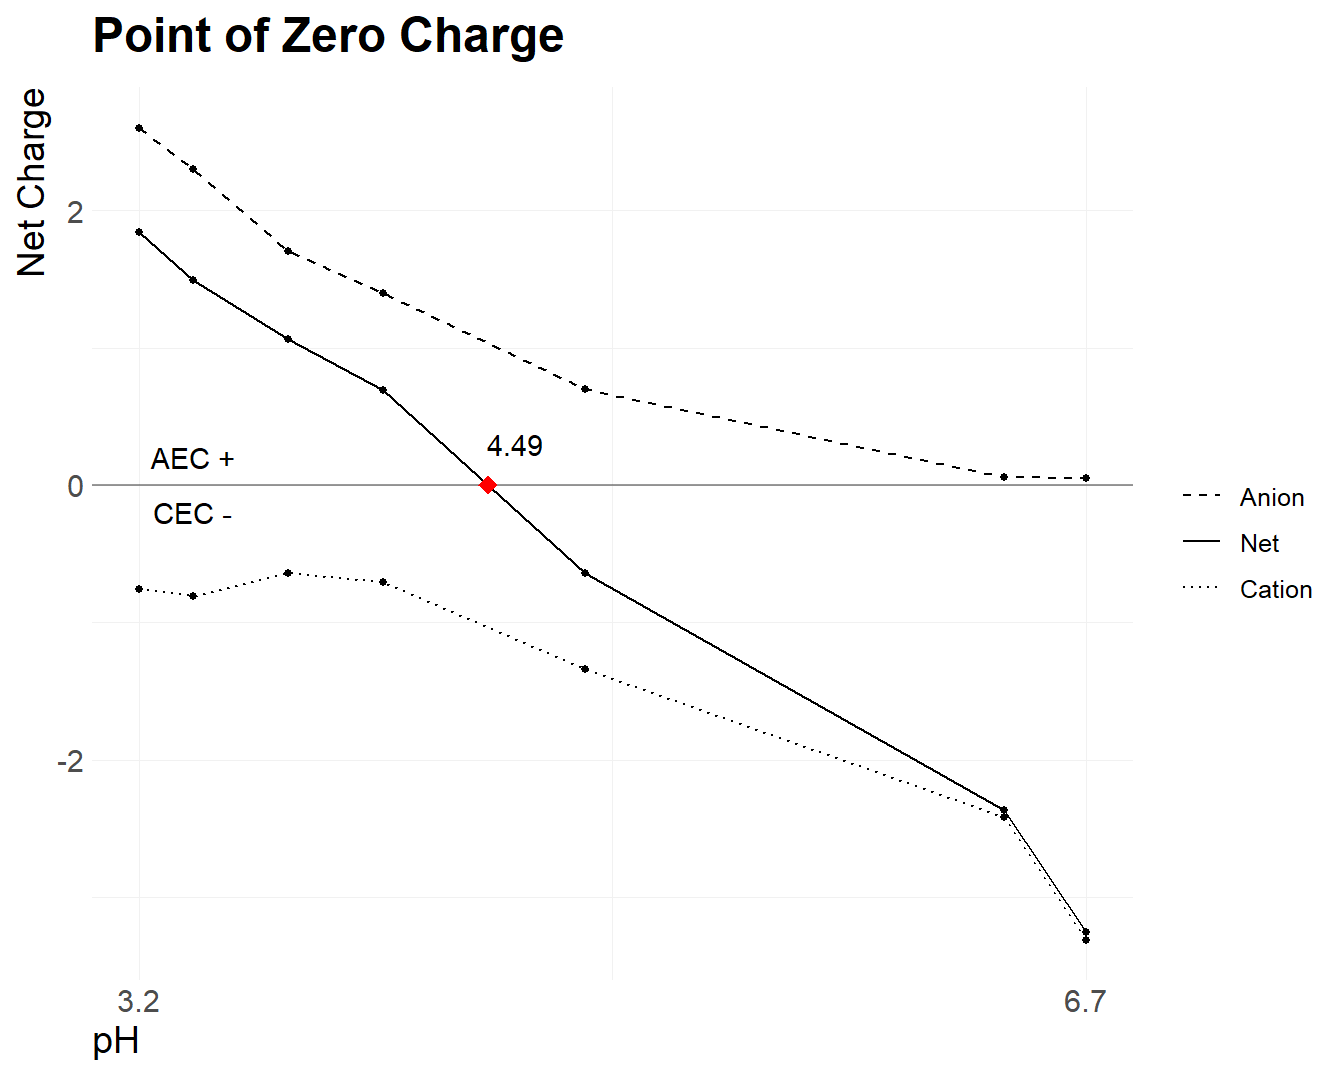
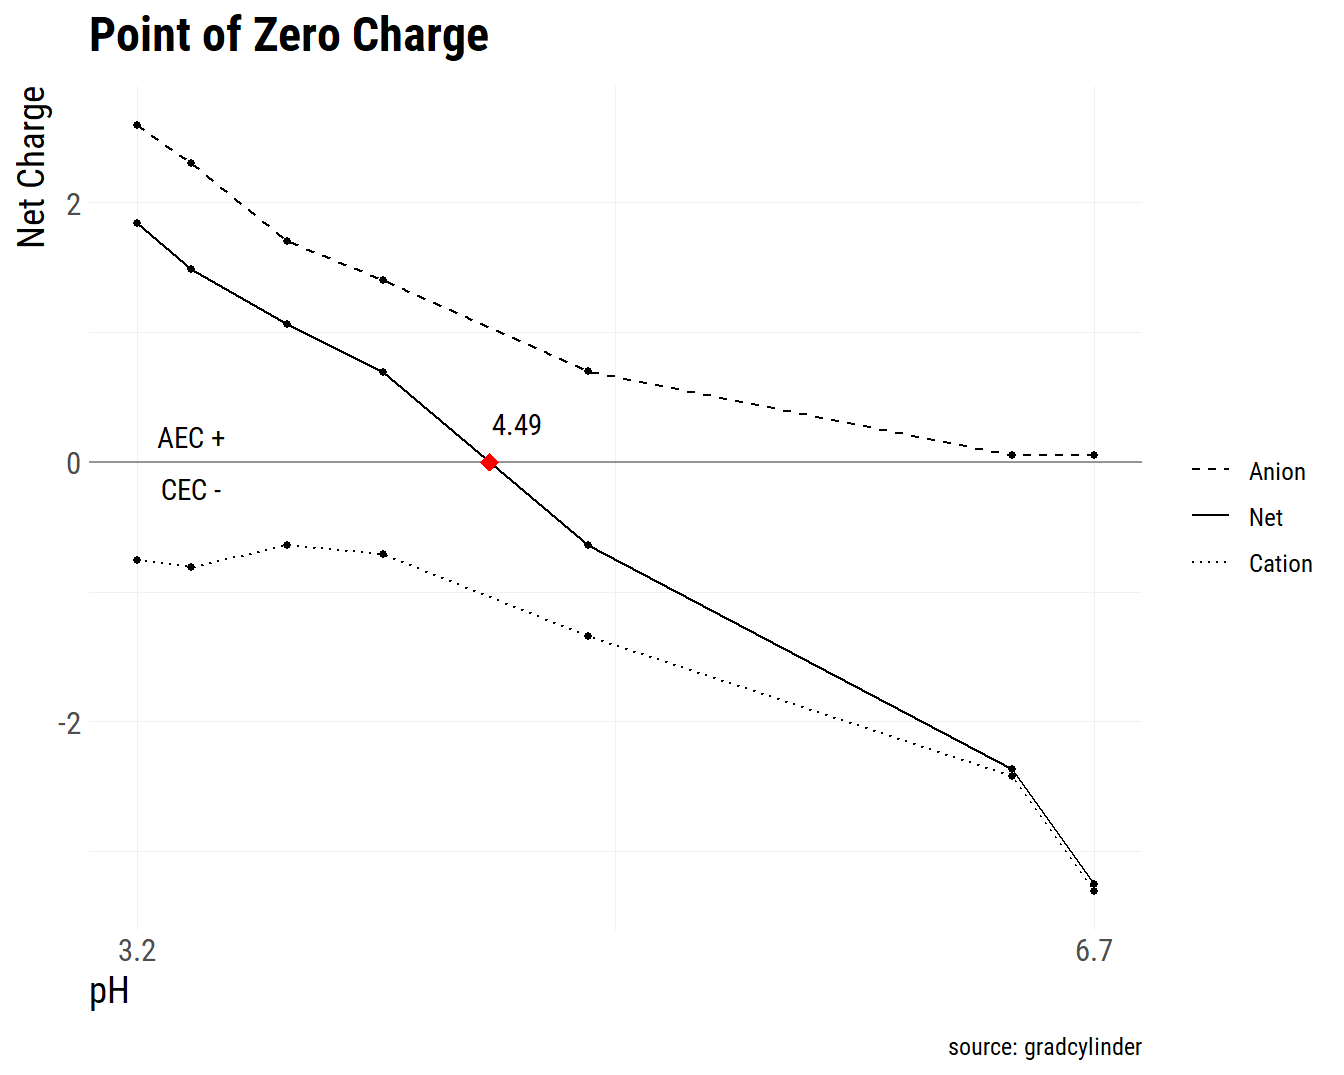
tweaks

diff --git a/content/post/visualizing-data.html b/content/post/visualizing-data.html
@@ -40,17 +40,17 @@ soil %&gt;%
     y = 150,
     label = paste(&quot;R^2 == &quot;, round(summary(lm)$r.squared,
                                    digits = 2)),
-    parse = TRUE
+    parse = TRUE,
+    family = &quot;Roboto Condensed&quot;
   ) +
   labs(
     x = &quot;Olsen (ppm)&quot;,
     y = &quot;Mehlich III (ppm)&quot;,
     title = &quot;Correlation of Olsen and Mehlich III soil phosphorus extractions&quot;,
     caption = &quot;source: gradcylinder&quot;
-  ) +
-  theme_bw()</code></pre>
+  )</code></pre>
 <pre><code>## `geom_smooth()` using formula &#39;y ~ x&#39;</code></pre>
-<p><img src="post/visualizing-data_files/figure-html/plot-1.png" width="672" /></p>
+<p><img src="/post/visualizing-data_files/figure-html/plot-1.png" width="672" /></p>
 </div>
 <div id="google-sheets" class="section level2">
 <h2>Google Sheets</h2>
@@ -62,7 +62,7 @@ soil %&gt;%
 <div id="microsoft-excel" class="section level2">
 <h2>Microsoft Excel</h2>
 <p>Is there much for me to explain here? You know what Excel is, right? When creating graphs in Excel, I do like being able to quickly change the overall appearance of the graph by selecting different templates provided by Microsoft. With that said, not all the templates are visually appealing. Some of the automatically assigned colors are kind of bland. And exporting graphs? Can only really be done if one is copying and pasting into Powerpoint or Word.</p>
-<p><img src="/img/visdata-01.png" /></p>
+<p><img src="/visdata_01.png" /></p>
 </div>
 <div id="datawrapper" class="section level2">
 <h2>Datawrapper</h2>
@@ -74,11 +74,6 @@ soil %&gt;%
 <div id="tableau" class="section level2">
 <h2>Tableau</h2>
 <p>Tableau offers data visualization and analysis software, including <a href="https://public.tableau.com/en-us/s/download/thanks">Tableau Public</a>, a free program and platform that streamlines visualization and online publishing. The visualizations are far more comprehensive than Sheets or Excel, giving the user the ability to create dashboards or stories out of multiple graphs. Here is <a href="https://public.tableau.com/profile/privatestorm#!/vizhome/1850AgriculturalProductioninPennsylvania/Dashboard">an example</a> of a dashboard that recently won a student contest. As for me, I haven’t used this software much, but I was impressed by how quickly I could make a simple map.</p>
-</div>
-<div id="plotly" class="section level2">
-<h2>Plotly</h2>
-<p><a href="https://chart-studio.plot.ly">Plotly’s Chart Studio</a> has some nice functionality and multiple chart options freely available to users. Last I really tried it, Plotly transitioned to a newer 2.0 platform, which in some ways was more user friendly and intuitive than version 1.0. Plotly 2 limited some features to free-account users like myself; some limitations are quite annoying, like the inability to change the color of the chart background without subscribing to a paid account. Or the chart font color. Or the chart font. Seriously? With that said, the charts can export in multiple formats and can be embedded into a website (see below), updating if you revise the graph or data later.</p>
-<p>Last I used Plotly, they offered a hefty discount to students looking for a personal subscription ($99/year instead of $420/year, but that student rate is up from $59 previously). Prices and company goals have changed since then, and are not readily seen on the site. Plotly orgnanized Plotcon, last held in 2017, which does not seem to have continued. There is an R package for plotly which worked with ggplot2, even. And Plotly has a <a href="https://www.youtube.com/user/plotlygraph">YouTube channel</a> (with Dash stuff and old Plotcon). Having just checked in with Plotly again recently, it seems that Plotly seems spread thin and distracted.</p>
 </div>
 <div id="raw" class="section level2">
 <h2>RAW</h2>
@@ -98,5 +93,5 @@ soil %&gt;%
 <div id="chartaccent" class="section level2">
 <h2>ChartAccent</h2>
 <p><a href="https://chartaccent.github.io">ChartAccent</a> is a really useful tool for creating basic graphs that need annotation. Sometimes, graphs speak for themselves, but often you’ll need to draw the eyes of viewers to a certain data point, certain trend or pattern, or at least acknowledge the data source if not your own.</p>
-<p><img src="/img/visdata-02.png" /></p>
+<p><img src="/visdata_02.png" /></p>
 </div>

diff --git a/content/post/plotting-for-the-colorblind.html b/content/post/plotting-for-the-colorblind.html
@@ -15,20 +15,21 @@ editor_options:
 <script src="/rmarkdown-libs/header-attrs/header-attrs.js"></script>
 
 
-<p>The following example is intended to help people with normal color vision experience a little bit of what it is like to be color blind.</p>
-<p>Imagine sitting in the audience at a scientific presentation, and the presenter puts up the following key result.</p>
+<p>The following example is intended to help people with normal color vision experience a little bit of what it is like to be color blind. Imagine sitting in the audience at a scientific presentation, and the presenter puts up the following key result.</p>
+<p> </p>
 <p><img src="/post/plotting-for-the-colorblind_files/figure-html/plot-cb-1.png" width="672" /></p>
 <p>“Clearly our novel approach has improved the expected response…”, the presenter says, everyone nodding in amazement.</p>
 <p>You look at the plot again and scratch your head, a bit annoyed perhaps since the rest of the audience already sees it, but to you it’s more challenging to interpret the differences between treatments. In fact, you can’t really tell which lines belong to which treatment. Is Treatment A the line above or below Treatment B? Why can’t you readily tell the difference?</p>
 <div id="color-blindness" class="section level2">
 <h2>Color Blindness</h2>
 <p>Perhaps more appropriately referred to as color vision deficiency, color blindness is a condition in which certain light receptors in the eye are either deficient or absent. A deficiency in seeing reds or greens properly (red-green color blindness) affects about 8% of the male population with Northern European ancestry. <a href="https://nei.nih.gov/health/color_blindness/facts_about">The different forms can be learned</a> about with a simple web search.</p>
-<p>The colors of the data points in the plot shown above I intentionally altered to mimic red-green color blindness (see below). So, if you couldn’t see the difference between Treatment A and Treament B in those data points, it’s because you were viewing the plot as one would that has red-green color blindness. Unless you’re already red-green color blind, in which case I hope you support my efforts to enlighten these “full-spectrum” people.</p>
+<p>The colors of the data points in the plot shown above I intentionally altered to mimic red-green color blindness (see below). So, if you couldn’t see the difference between Treatment A and Treatment B in those data points, it’s because you were viewing the plot as one would that has red-green color blindness. Unless you’re already red-green color blind, in which case I hope you support my efforts to enlighten these “full-spectrum” people.</p>
 </div>
 <div id="dichromat" class="section level2">
 <h2>Dichromat</h2>
 <p><a href="https://cran.r-project.org/web/packages/dichromat/index.html">Dichromat</a> is a package for R. To use it, create your plot with a color palette of your choice. Applying dichromat will alter the color palette, simulating one of the prominent color vision deficiencies. If the plot still looks good after using dichromat, then you can be more confident that the original color plot will be seen as intended by all audience members, and not just 92% of them.</p>
 <p>Below is the original plot.</p>
+<p> </p>
 <p><img src="/post/plotting-for-the-colorblind_files/figure-html/unnamed-chunk-1-1.png" width="672" /></p>
 <p>Next is sample code I used to create the plot at the top of the page, which simulated red-green color blindness, or deuteranopia.</p>
 <pre><code>library(dichromat)
@@ -87,6 +88,7 @@ ggplot(data = data,
 </ul></li>
 </ul>
 <p>The following is a simple modification of the original plot, which involves shapes and limits the palette to changes in brightness rather than colors.</p>
+<p> </p>
 <p><img src="/post/plotting-for-the-colorblind_files/figure-html/plot-gray-1.png" width="672" /></p>
 </div>
 <div class="footnotes">

diff --git a/content/post/point-zero-charge.html b/content/post/point-zero-charge.html
@@ -1,6 +1,6 @@
 ---
 title: "Finding the Point of Zero Charge in R"
-date: '2018-04-07'
+lastmod: "2021-01-29"
 slug: point-zero-charge
 description: "What is the point of this anyways?"
 tags:
@@ -95,55 +95,8 @@ ph_last &lt;- tail(pH, n = 1)</code></pre>
   labs(title = &quot;Point of Zero Charge&quot;,
        x = &quot;pH&quot;,
        y = &quot;Net Charge&quot;,
-       linetype = NULL)</code></pre>
-<pre><code>## Warning in grid.Call(C_stringMetric, as.graphicsAnnot(x$label)): font family not
-## found in Windows font database
-
-## Warning in grid.Call(C_stringMetric, as.graphicsAnnot(x$label)): font family not
-## found in Windows font database
-
-## Warning in grid.Call(C_stringMetric, as.graphicsAnnot(x$label)): font family not
-## found in Windows font database
-
-## Warning in grid.Call(C_stringMetric, as.graphicsAnnot(x$label)): font family not
-## found in Windows font database</code></pre>
-<pre><code>## Warning in grid.Call(C_textBounds, as.graphicsAnnot(x$label), x$x, x$y, : font
-## family not found in Windows font database
-
-## Warning in grid.Call(C_textBounds, as.graphicsAnnot(x$label), x$x, x$y, : font
-## family not found in Windows font database
-
-## Warning in grid.Call(C_textBounds, as.graphicsAnnot(x$label), x$x, x$y, : font
-## family not found in Windows font database
-
-## Warning in grid.Call(C_textBounds, as.graphicsAnnot(x$label), x$x, x$y, : font
-## family not found in Windows font database
-
-## Warning in grid.Call(C_textBounds, as.graphicsAnnot(x$label), x$x, x$y, : font
-## family not found in Windows font database
-
-## Warning in grid.Call(C_textBounds, as.graphicsAnnot(x$label), x$x, x$y, : font
-## family not found in Windows font database
-
-## Warning in grid.Call(C_textBounds, as.graphicsAnnot(x$label), x$x, x$y, : font
-## family not found in Windows font database
-
-## Warning in grid.Call(C_textBounds, as.graphicsAnnot(x$label), x$x, x$y, : font
-## family not found in Windows font database</code></pre>
-<pre><code>## Warning in grid.Call.graphics(C_text, as.graphicsAnnot(x$label), x$x, x$y, :
-## font family not found in Windows font database</code></pre>
-<pre><code>## Warning in grid.Call(C_textBounds, as.graphicsAnnot(x$label), x$x, x$y, : font
-## family not found in Windows font database
-
-## Warning in grid.Call(C_textBounds, as.graphicsAnnot(x$label), x$x, x$y, : font
-## family not found in Windows font database</code></pre>
-<pre><code>## Warning in grid.Call.graphics(C_text, as.graphicsAnnot(x$label), x$x, x$y, :
-## font family not found in Windows font database</code></pre>
-<pre><code>## Warning in grid.Call(C_textBounds, as.graphicsAnnot(x$label), x$x, x$y, : font
-## family not found in Windows font database
-
-## Warning in grid.Call(C_textBounds, as.graphicsAnnot(x$label), x$x, x$y, : font
-## family not found in Windows font database</code></pre>
+       linetype = NULL,
+       caption = &quot;source: gradcylinder&quot;)</code></pre>
 <p><img src="/post/point-zero-charge_files/figure-html/plot-1.png" width="672" /></p>
 <p>To make your life easier, below is a link to the <em>R</em> code so that you do not have to copy and paste code chunks from this page.</p>
 <p><a href="/file/pzc-calculation.R"><em>R</em> code file</a></p>

diff --git a/themes/hugo-theme-stack/assets/scss/custom.scss b/themes/hugo-theme-stack/assets/scss/custom.scss
@@ -2,23 +2,32 @@
 
   
 body {
+  font-family: "Roboto", sans-serif;
   text-align: justify;
   max-width: 1000px;
   margin: auto;
 }
 
 h1 {
+  font-family: "Roboto", sans-serif
   text-align: left;
   font-weight: 900;
 }
 
 h2 {
+  font-family: "Roboto", sans-serif
   text-align: left;
   font-weight: 700;
 }
   
 h3 {
+  font-family: "Roboto", sans-serif
   text-align: left;
   font-weight: 500;
   font-style: italic;
+}
+
+code {
+  font-family: "Fira Code", monospace;
+  font-size: 85%;
 }
